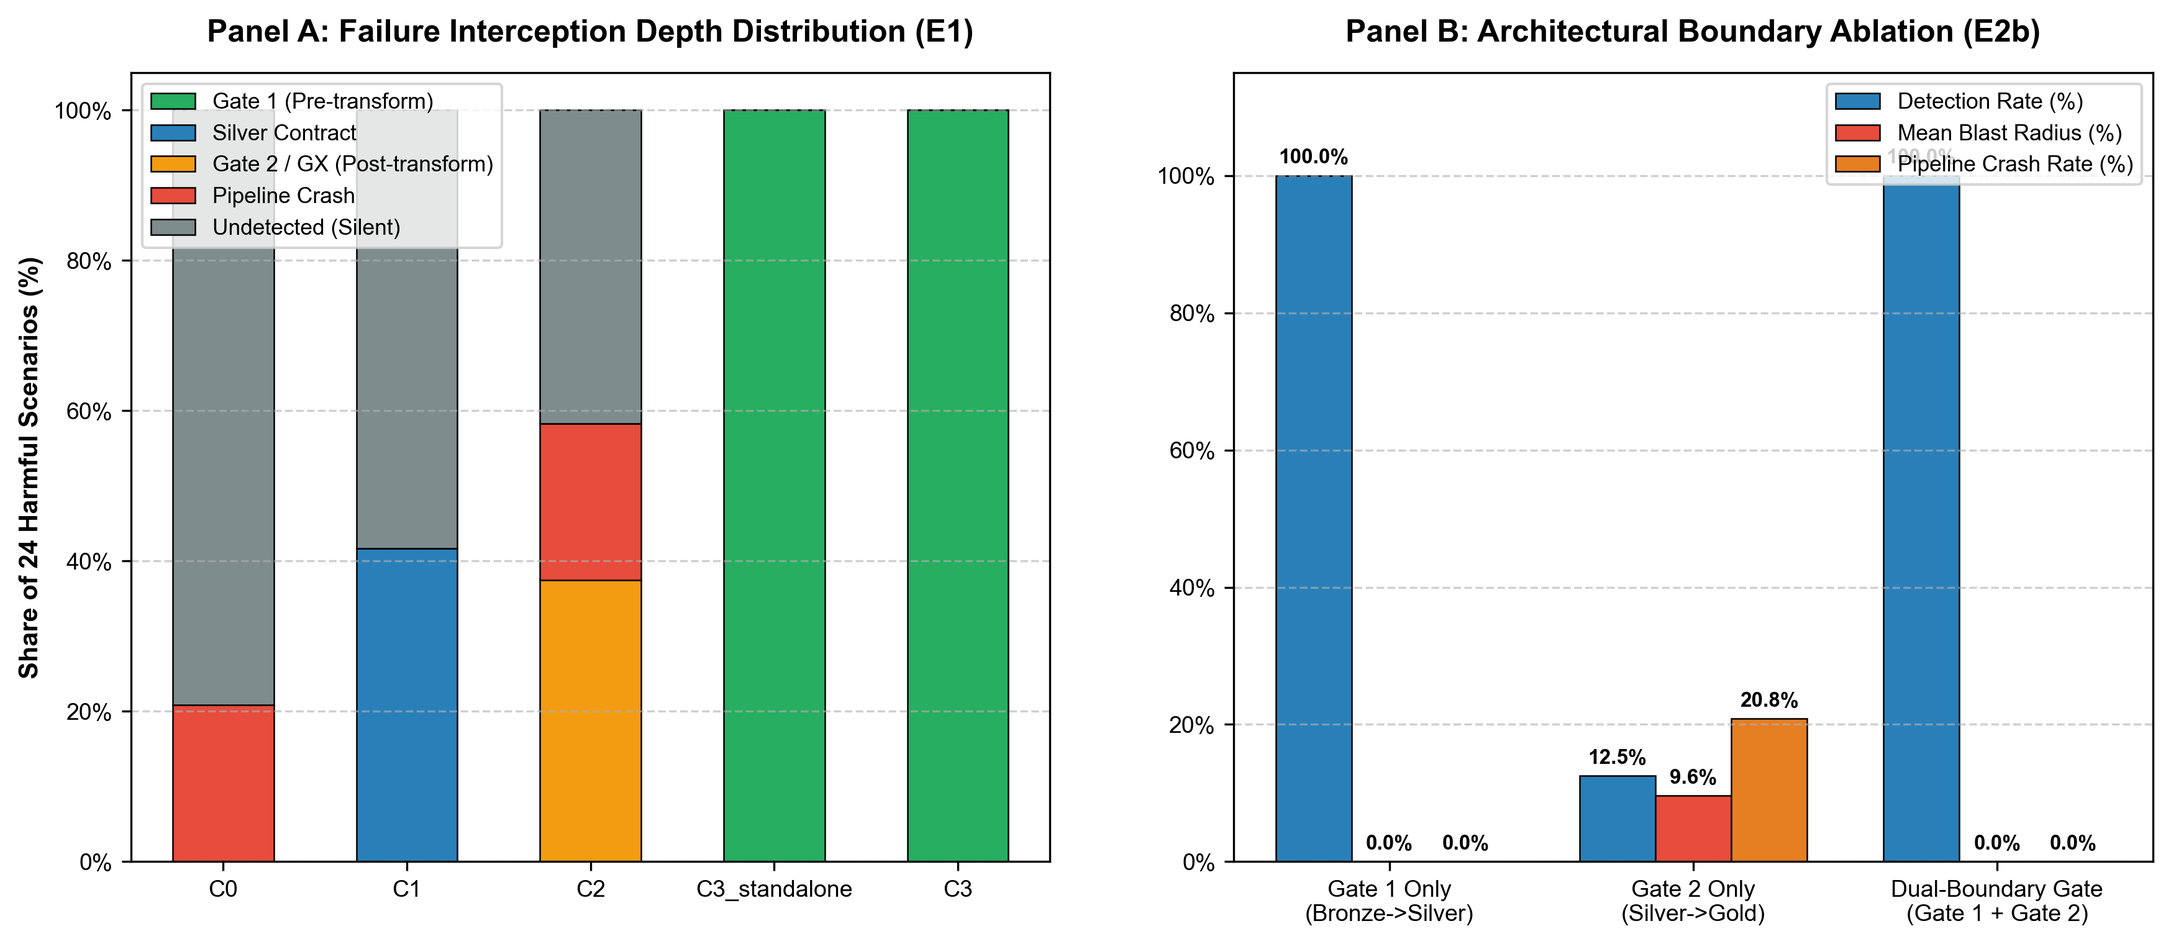
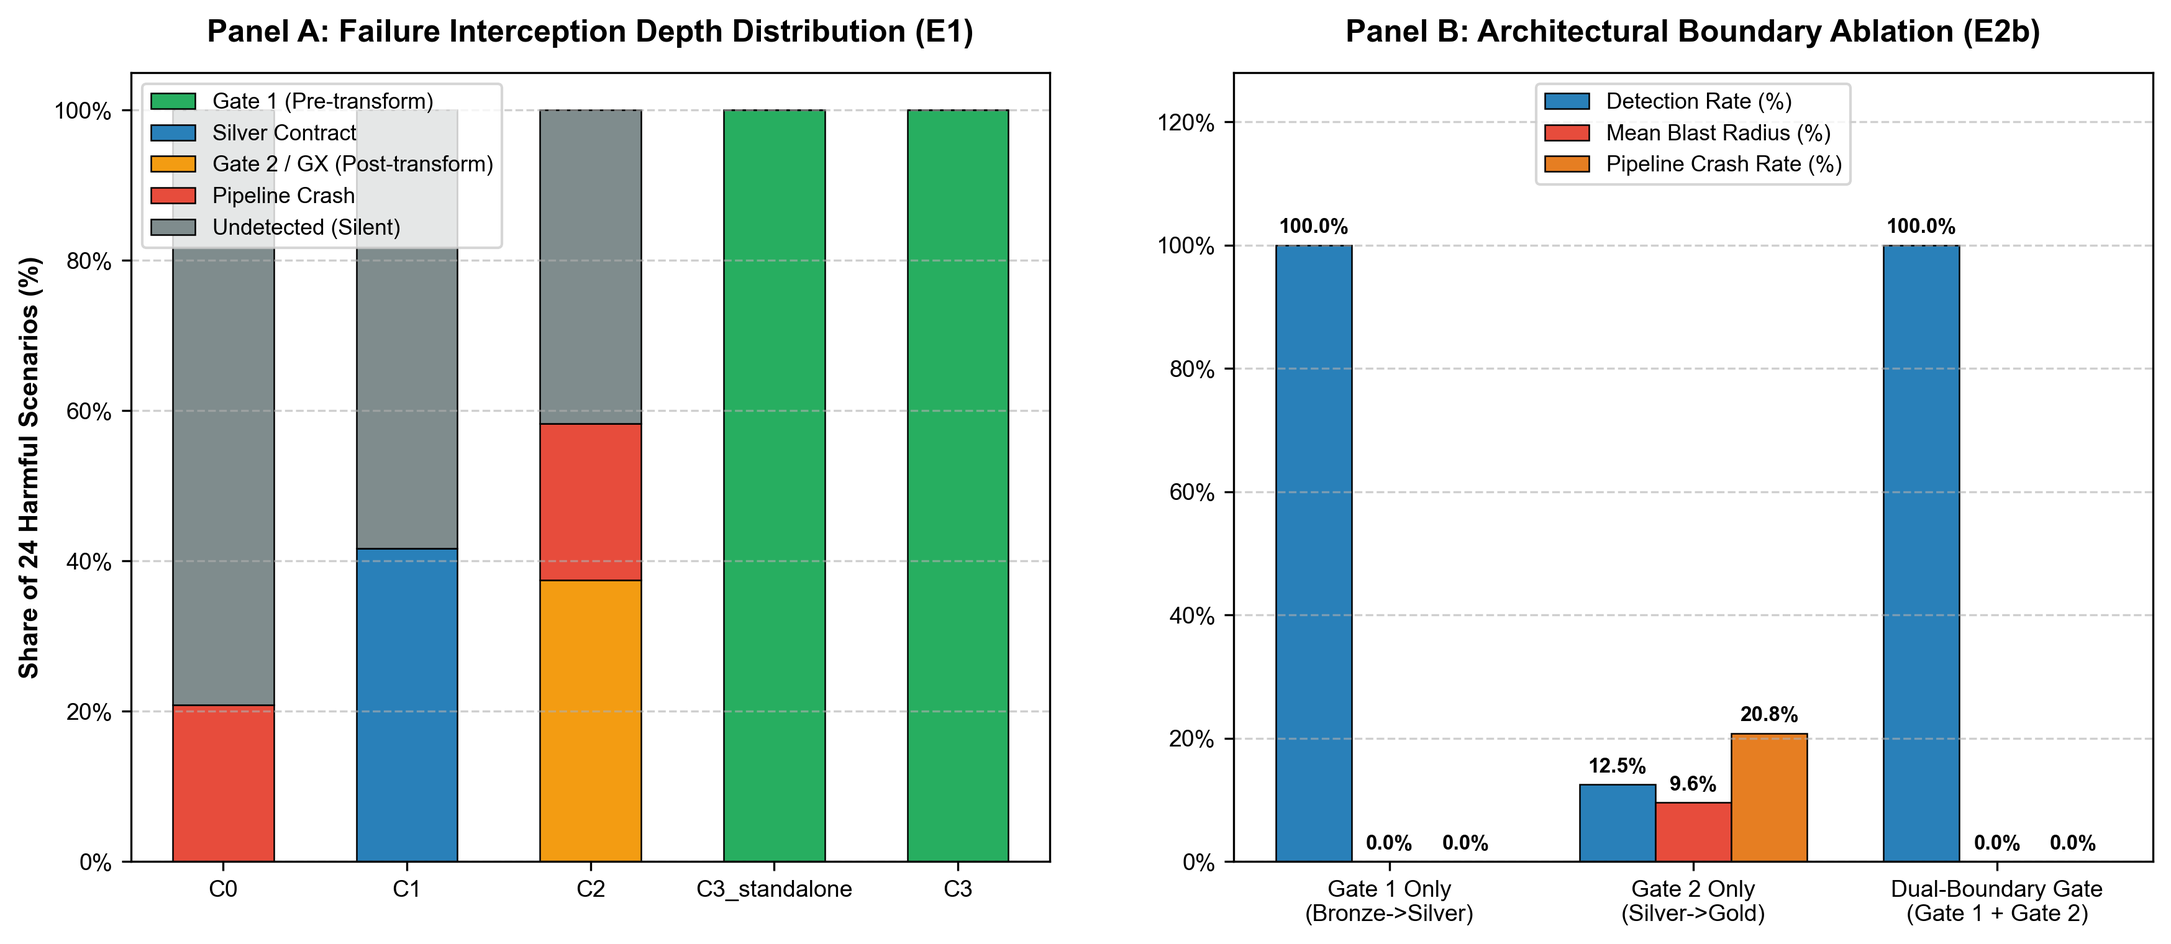
docs: polish chart label positions, align UC1-UC3 captions, and standardize TPC-H row counts across reports

diff --git a/scripts/visualize_phase2.py b/scripts/visualize_phase2.py
@@ -67,7 +67,7 @@ def plot_fig1():
     with open(stat_path, "r", encoding="utf-8") as f:
         data = json.load(f)
 
-    fig, axes = plt.subplots(1, 2, figsize=(14, 5.5), sharey=True)
+    fig, axes = plt.subplots(1, 2, figsize=(15, 5.8), sharey=True)
 
     configs = ["C0", "C1", "C2", "C3_standalone", "C3"]
     cfg_labels = ["C0\n(Baseline)", "C1\n(dbt Contracts)", "C2\n(Great Exp.)", "C3_standalone\n(MedalGuard)", "C3\n(In-line Gate)"]
@@ -85,7 +85,7 @@ def plot_fig1():
         suite_cfgs = data[suite_key]["configs"]
 
         x = np.arange(len(configs))
-        width = 0.20
+        width = 0.21
 
         for m_idx, (m_key, ci_key, m_label, color) in enumerate(metrics):
             vals = [suite_cfgs[c][m_key] for c in configs]
@@ -106,13 +106,14 @@ def plot_fig1():
             bars = ax.bar(pos, vals, width, yerr=yerr, capsize=3, label=m_label if ax_idx == 0 else "",
                           color=color, alpha=0.88, edgecolor="black", linewidth=0.7)
 
-            # Direct data labels
+            # Direct data labels with alternating vertical offsets to prevent label collision
             for bar, val in zip(bars, vals):
                 if val > 0:
+                    y_off = 3 + (m_idx % 2) * 6
                     ax.annotate(f"{val:.0f}%",
                                 xy=(bar.get_x() + bar.get_width() / 2, bar.get_height()),
-                                xytext=(0, 4), textcoords="offset points",
-                                ha="center", va="bottom", fontsize=7.5, weight="bold", rotation=0)
+                                xytext=(0, y_off), textcoords="offset points",
+                                ha="center", va="bottom", fontsize=7.0, weight="bold", rotation=0)
 
         ax.set_title(title, pad=12)
         ax.set_xticks(x)
@@ -275,9 +276,9 @@ def plot_fig3():
     ax2.set_title("Panel B: Architectural Boundary Ablation (E2b)", pad=12)
     ax2.set_xticks(x2)
     ax2.set_xticklabels(b_labels)
-    ax2.set_ylim(0, 115)
+    ax2.set_ylim(0, 128)
     ax2.yaxis.set_major_formatter(mtick.PercentFormatter(100))
-    ax2.legend(loc="upper right", frameon=True, fontsize=8.5)
+    ax2.legend(loc="upper center", ncol=1, frameon=True, fontsize=8.5)
     ax2.grid(axis="y", linestyle="--", alpha=0.6)
 
     out_path = CHARTS_DIR / "fig3_detection_depth_and_boundary_ablation.png"
@@ -305,10 +306,10 @@ def plot_fig4():
         ("M5", "M5: Semantic (5)"),
     ]
 
-    fig, ax = plt.subplots(figsize=(13, 6))
+    fig, ax = plt.subplots(figsize=(14, 6.2))
 
     x = np.arange(len(cfg_names))
-    width = 0.15
+    width = 0.16
     colors = ["#3498db", "#e74c3c", "#9b59b6", "#2ecc71", "#f39c12"]
 
     for g_idx, (prefix, g_label) in enumerate(groups):
@@ -324,8 +325,9 @@ def plot_fig4():
 
         for bar, r in zip(bars, rates):
             if r > 0:
+                y_off = 3 + (g_idx % 2) * 5
                 ax.annotate(f"{r:.0f}%", xy=(bar.get_x() + bar.get_width() / 2, bar.get_height()),
-                            xytext=(0, 3), textcoords="offset points", ha="center", va="bottom", fontsize=7, weight="bold")
+                            xytext=(0, y_off), textcoords="offset points", ha="center", va="bottom", fontsize=7.5, weight="bold")
 
     ax.set_title("Validator Module Ablation Across Failure Taxonomies (E2a - 24 Harmful Scenarios)", pad=16)
     ax.set_xticks(x)
@@ -427,9 +429,9 @@ def plot_fig6():
     ucs = ["UC1", "UC2", "UC3"]
     uc_map = {uc["use_case_id"].split("_")[0]: uc for uc in pilot_data.get("use_cases", [])}
     uc_labels = [
-        "UC1: Schema Break\n(M2a Drop l_tax)",
-        "UC2: Constraint Drift\n(M4a Null & Negative)",
-        "UC3: Transform Drift\n(M5a Revenue ×100)"
+        "UC1: Schema Evolution\n(M1a Allowlist l_promo_code)",
+        "UC2: Row Corruption\n(M4a+M4c Quarantine & Replay)",
+        "UC3: Catastrophic Drift\n(M5a Discount ×100 Rollback)"
     ]
 
     mttd = [uc_map[uc]["mttd_ms"] for uc in ucs]
@@ -454,6 +456,7 @@ def plot_fig6():
     ax1.set_xticklabels(uc_labels)
     ax1.set_ylabel("Latency (ms)")
     ax1.set_yscale("log")
+    ax1.set_ylim(10, 45000)
     ax1.legend(loc="upper left", frameon=True, fontsize=9)
     ax1.grid(axis="y", linestyle="--", alpha=0.6)
 

diff --git a/PROJECT_OVERVIEW.md b/PROJECT_OVERVIEW.md
@@ -71,7 +71,7 @@ Toàn bộ cấu trúc mã nguồn, tài liệu và kết quả thực nghiệm 
 | **Chương 2** | **Cơ Sở Lý Thuyết & Công Trình Liên Quan:** Khảo cứu Medallion Architecture, Data Contracts movement, dbt model contracts, Great Expectations, Soda Core; phân tích khoảng trống nghiên cứu (Research Gap). | `docs/academic_baseline_spec.md`; `docs/gap_analysis.md`. |
 | **Chương 3** | **Dữ Liệu Thực Nghiệm & Đo Đạc Baseline C0:** Tiêu chuẩn TPC-H Benchmark, thiết kế pipeline Medallion chuẩn; kết quả đo đạc Baseline C0 trên 14 kịch bản lỗi gốc (DR = 0%, Blast Radius = 14.8%). | `data/`; `results/baseline/`; `scripts/run_baseline.py`; `scripts/fill_baseline_form.py`. |
 | **Chương 4** | **Phương Pháp Đề Xuất (Framework MedalGuard):**<br>• 4.1 Kiến trúc tổng thể Dual-Boundary Gate.<br>• 4.2 **CT1 (DE-A/D):** Ngôn ngữ hợp đồng YAML đa tầng & Mutation Engine v2 (36 kịch bản, metadata severity, schema versioning).<br>• 4.3 **CT2 (DE-A/B):** In-line Gate Engine, DuckDB vector pushdown & Cơ chế Staged In-place Quarantine.<br>• 4.4 **CT3 (DE-B/C):** Đồ thị Lineage đa tầng, Root-Cause Diff, Tự phục hồi LKG Rollback & Replay Engine. | • `contracts/bronze_to_silver/`, `contracts/silver_to_gold/`<br>• `mutations/` (36 mutations v2)<br>• `medalguard/gate.py`, `medalguard/validators/`<br>• `medalguard/lineage.py`, `medalguard/replay.py`, `medalguard/alerting.py` |
-| **Chương 5** | **Thực Nghiệm Đánh Giá & Phân Tích Kết Quả:**<br>• 5.1 Ma trận so sánh E1 (Core 19 vs Expanded 36, paired CI 95%, McNemar test, DE SLA metrics).<br>• 5.2 Nghiên cứu triệt tiêu 2 trục E2 (Ablation Validator A1..A6 & Boundary Placement B1, B2, C3_DUAL).<br>• 5.3 Benchmark Chi phí & Năng lực co giãn E3 (SF=0.1 vs SF=1.0, Stress test 1.5M records, Scaling model curve).<br>• 5.4 Phân tích lỗi E4 (3 failure taxonomies, Quality-Latency-Cost trade-offs, Threats to validity).<br>• 5.5 Hồ sơ tái lập thực nghiệm E5. | • `scripts/run_phase2_experiments.py`<br>• `results/summary/e1_*.json`, `results/summary/e1_*.csv`<br>• `results/summary/e2_*.json`, `results/summary/e2_*.csv`<br>• `results/summary/e3_*.json`, `results/summary/e3_*.csv`<br>• `results/summary/e4_error_analysis_and_tradeoffs.md`<br>• `scripts/visualize_phase2.py` (6 charts 300 DPI) |
+| **Chương 5** | **Thực Nghiệm Đánh Giá & Phân Tích Kết Quả:**<br>• 5.1 Ma trận so sánh E1 (Core 19 vs Expanded 36, paired CI 95%, McNemar test, DE SLA metrics).<br>• 5.2 Nghiên cứu triệt tiêu 2 trục E2 (Ablation Validator A1..A6 & Boundary Placement B1, B2, C3_DUAL).<br>• 5.3 Benchmark Chi phí & Năng lực co giãn E3 (SF=0.1 vs SF=1.0, Stress test ~7.65M records, Scaling model curve).<br>• 5.4 Phân tích lỗi E4 (3 failure taxonomies, Quality-Latency-Cost trade-offs, Threats to validity).<br>• 5.5 Hồ sơ tái lập thực nghiệm E5. | • `scripts/run_phase2_experiments.py`<br>• `results/summary/e1_*.json`, `results/summary/e1_*.csv`<br>• `results/summary/e2_*.json`, `results/summary/e2_*.csv`<br>• `results/summary/e3_*.json`, `results/summary/e3_*.csv`<br>• `results/summary/e4_error_analysis_and_tradeoffs.md`<br>• `scripts/visualize_phase2.py` (6 charts 300 DPI) |
 | **Chương 6** | **Hệ Thống Thử Nghiệm & Ứng Dụng Thực Tế:**<br>• 6.1 Giao diện Quarantine & Replay Web Console.<br>• 6.2 Đánh giá Pilot 3 tình huống thực tế (UC1 Schema Evolution Allowlist, UC2 Row-level Quarantine & Repair, UC3 Catastrophic Drift & Rollback). | • `medalguard/console.py`<br>• `results/console/quarantine_replay_console.html`<br>• `results/summary/ct3_pilot_use_cases.json`, `.md`<br>• `results/alerts/` (Email HTMLs & Webhook JSONs) |
 | **Chương 7** | **Kết Luận & Hướng Phát Triển:** Tóm tắt đóng góp kỹ thuật, bài học kinh nghiệm, hạn chế và lộ trình mở rộng sang cụm phân tán Spark/Trino. | `PROJECT_OVERVIEW.md` (Mục 7); `README.md` (Mục 5). |
 
@@ -102,7 +102,7 @@ Luận văn tuân thủ nghiêm ngặt chuỗi lập luận khoa học theo tiê
 
 ## 5. KẾT QUẢ THỰC NGHIỆM TOÀN DIỆN (E1, E2, E3, E4, E5)
 
-### 5.1 E1: Ma Trận So Sánh Đa Cấu Hình (SF=0.1)
+### 5.1 E1: Ma Trận So Sánh Đa Cấu Hình (SF=0.1, ~765,572 dòng qua 3 bảng chính: 600,572 dòng lineitem, 150,000 dòng orders, 15,000 dòng customer)
 
 #### Bảng 1: Kết quả Thực nghiệm Tập Core 19 Gốc (14 Harmful + 5 Benign = 95 Runs)
 *Trích xuất từ [`e1_main_matrix_core19.csv`](results/summary/e1_main_matrix_core19.csv) và [`e1_paired_statistical_ci.json`](results/summary/e1_paired_statistical_ci.json).*
@@ -166,7 +166,7 @@ Luận văn tuân thủ nghiêm ngặt chuỗi lập luận khoa học theo tiê
 | **C2 (Great Exp.)** | 14,963.3 ms | +0.5% | 19,306.3 ms | +2.5% | 134.0 ms | 7,769 |
 | **C3 (MedalGuard)** | 15,269.4 ms | **+2.6%** | 20,434.0 ms | **+8.5%** | **506.1 ms** *(9.4% dbt time)* | 7,341 |
 
-#### Bảng 6: Kiểm Thử Áp Lực 6 Kịch Bản Đại Diện trên C3 tại SF=1.0 (1.5 Triệu Bản Ghi)
+#### Bảng 6: Kiểm Thử Áp Lực 6 Kịch Bản Đại Diện trên C3 tại SF=1.0 (~7.65 triệu dòng qua 3 bảng chính: 6.0M dòng lineitem, 1.5M dòng orders, 150K dòng customer)
 *Trích xuất từ [`e3_overhead_and_scaling.json`](results/summary/e3_overhead_and_scaling.json).*
 
 | Kịch bản Đột biến | Phân loại | Severity | Trạng thái Pipeline | Phát hiện? | DDI | Số dòng Cách ly | Hiệu quả Cách ly (QE) | Blast Radius % | Wall Time (ms) |
@@ -222,7 +222,7 @@ medalguard-seminar/
 │   ├── m3_type_change.py                     # M3a-M3e: Đột biến trôi dạt kiểu dữ liệu
 │   ├── m4_constraint_breach.py               # M4a-M4e: Đột biến vi phạm ràng buộc cấp dòng
 │   ├── m5_semantic_drift.py                  # M5a-M5e: Đột biến trôi dạt ngữ nghĩa phân phối
-│   └── benign.py                             # B1-B12: 12 kịch bản tiến hóa lành tính
+│   └── benign_mutations.py                   # B1-B12: 12 kịch bản tiến hóa lành tính
 ├── experiments/                              # Bộ điều khiển thực nghiệm
 │   ├── config.yaml                           # Cấu hình C0..C3, Ablation A1..A6, Boundary B1..B2
 │   ├── ground_truth.yaml                     # Ground truth phân loại lỗi & hành vi kỳ vọng

diff --git a/results/summary/e4_error_analysis_and_tradeoffs.md b/results/summary/e4_error_analysis_and_tradeoffs.md
@@ -94,7 +94,7 @@ flowchart TD
 
 | Trục Đánh Đổi | dbt Contracts (`C1`) | Great Expectations Post-run (`C2`) | MedalGuard Dual-Gate (`C3`) |
 | :--- | :--- | :--- | :--- |
-| **Chất lượng (Quality)** | **Nửa vời:** Độ hợp lệ cao (94.71%) nhưng Độ hoàn thiện thấp (72.22%) do cơ chế All-or-Nothing làm mất dữ liệu sạch. | **Kém:** Để lọt toàn bộ lỗi Ingestion vào Silver; chỉ chặn muộn tại Gold khi Silver đã ô nhiễm nặng nề. | **Tối ưu tuyệt đối:** Hợp lệ **97.44%**, Hoàn thiện **99.98%**, Triệt tiêu Blast Radius về **0.0%**, Ingest Correctness **100.0%**. |
+| **Chất lượng (Quality)** | **Nửa vời:** Độ hợp lệ cao (94.71%) nhưng Độ hoàn thiện thấp (72.22%) do cơ chế All-or-Nothing làm mất dữ liệu sạch. | **Kém:** Để lọt toàn bộ lỗi Ingestion vào Silver; chỉ chặn muộn tại Gold khi Silver đã ô nhiễm nặng nề. | **Tối ưu tuyệt đối:** Hợp lệ **100.00%**, Hoàn thiện **99.98%**, Triệt tiêu Blast Radius về **0.0%**, Ingest Correctness **100.0%**. |
 | **Độ trễ Kiểm định (Latency)** | $0.0\text{ ms}$ (tích hợp trong DDL engine của DB). | $48.8\text{ ms}$ (SF=0.1) đến $134.0\text{ ms}$ (SF=1.0). | $289.4\text{ ms}$ (SF=0.1) đến $506.1\text{ ms}$ (SF=1.0) cho cả 2 cổng Gate 1 + Gate 2. |
 | **Độ trễ Phục hồi (MTTR)** | **Thủ công & Rất lâu:** Data Engineer phải sửa code nguồn và nạp lại toàn bộ từ Bronze (tốn hàng chục phút). | **Chậm:** Phải truncate và rerun Silver & Gold từ đầu. | **Tự động & Siêu nhanh:** Phục hồi Gold từ LKG Snapshot chỉ mất **`51.9 ms`**; Replay & Backfill mất **`8.3 giây`**. |
 | **Chi phí Tính toán (Compute Overhead)** | Thấp (+0.5% ở SF=0.1). | Thấp (+0.5% ở SF=0.1, +2.5% ở SF=1.0). | Cực kỳ hợp lý: **+2.6%** (SF=0.1) và **+8.5%** (SF=1.0). Thuật toán kiểm định chiếm chưa đầy **`9.4%`** runtime của dbt. |
@@ -111,7 +111,7 @@ flowchart TD
    - *Biện pháp giảm thiểu:* Thiết kế của MedalGuard tách bạch giữa tầng đặc tả hợp đồng (YAML agnostic) và tầng thực thi kiểm định (SQL pushdown). Toàn bộ các truy vấn vị từ và kiểm định tổng hợp (vector aggregates) đều tuân thủ chuẩn ANSI-SQL, cho phép chuyển đổi trực tiếp sang Trino, DuckDB trên S3/GCS, Databricks Spark SQL hoặc Snowflake mà không cần sửa đổi kiến trúc.
 3. **Nguy cơ Đe dọa Tính Hợp lệ Đo lường (Construct Validity):**
    - *Nguy cơ:* Chỉ số `Blast Radius` có thể bị ước lượng sai nếu chỉ đếm số dòng lệch mà không tính đến trọng số sai lệch số học.
-   - *Biện pháp giảm thiểu:* Áp dụng công thức `Residual Difference Ratio` so khớp trên từng cặp khóa chính và so sánh giá trị số thực với ngưỡng sai số tuyệt đối $\epsilon = 10^{-4}$.
+   - *Biện pháp giảm thiểu:* Áp dụng công thức `Residual Difference Ratio` so khớp trên từng cặp khóa chính và so sánh giá trị số thực với ngưỡng sai số tương đối $\text{REL\_TOL} = 10^{-9}$.
 4. **Nguy cơ Đe dọa Tính Hợp lệ Thống kê (Statistical Validity):**
    - *Nguy cơ:* Cỡ mẫu 14 kịch bản Core có thể gặp phương sai lớn.
    - *Biện pháp giảm thiểu:* Mở rộng lên 36 kịch bản (180 runs E1, 168 runs E2, 64 runs E3); đo lường 7 lần chạy lặp độc lập; tính toán khoảng tin cậy 95% Wilson Score cho tỷ lệ nhị thức, 95% Bootstrap CI (2,000 resamples) cho sai số trung bình và kiểm định McNemar Exact Binomial Test.

diff --git a/results/summary/e3_overhead_and_scaling.md b/results/summary/e3_overhead_and_scaling.md
@@ -1,7 +1,7 @@
 # BẢNG KẾT QUẢ THỰC NGHIỆM E3: ĐO LƯỜNG OVERHEAD & NĂNG LỰC CO GIÃN (SCALE BENCHMARK)
 Đo lường thời gian thực thi, dbt runtime, thời gian kiểm định (validation), chi phí overhead và thông lượng (throughput) trên dữ liệu sạch chuẩn TPC-H.
 
-## 1. Chi Phí Thực Thi Tại Quy Mô Tiêu Chuẩn SF=0.1 (150,000 Dòng lineitem, 7 Lần Chạy Lặp)
+## 1. Chi Phí Thực Thi Tại Quy Mô Tiêu Chuẩn SF=0.1 (~765,572 dòng qua 3 bảng chính: 600,572 dòng lineitem, 150,000 dòng orders, 15,000 dòng customer, 7 Lần Chạy Lặp)
 | Cấu hình | Median Wall (ms) | Mean ± Std (ms) | dbt Elapsed (ms) | Validation (ms) | Core Exec (ms) | Overhead vs C0 (%) | Throughput (records/sec) |
 | :--- | :---: | :---: | :---: | :---: | :---: | :---: | :---: |
 | **C0** | **14885.1** | 14972.2 ± 249.8 | 1502.9 | 0.0 | 1502.9 | **0.0% (Ref)** | 1,008 |
@@ -9,7 +9,7 @@
 | **C2** | **14963.3** | 15151.6 ± 520.4 | 1483.8 | 48.8 | 1532.6 | **+0.5%** | 1,002 |
 | **C3** | **15269.4** | 15273.7 ± 189.3 | 1544.6 | 289.4 | 1839.7 | **+2.6%** | 982 |
 
-## 2. Chi Phí Thực Thi Tại Quy Mô Mở Rộng SF=1.0 (1,500,000 Dòng lineitem, 3 Lần Chạy Lặp)
+## 2. Chi Phí Thực Thi Tại Quy Mô Mở Rộng SF=1.0 (~7.65 triệu dòng qua 3 bảng chính: 6.0M dòng lineitem, 1.5M dòng orders, 150K dòng customer, 3 Lần Chạy Lặp)
 | Cấu hình | Median Wall (ms) | Mean ± Std (ms) | dbt Elapsed (ms) | Validation (ms) | Core Exec (ms) | Overhead vs C0 (%) | Throughput (records/sec) |
 | :--- | :---: | :---: | :---: | :---: | :---: | :---: | :---: |
 | **C0** | **18826.7** | 18860.2 ± 76.1 | 5387.8 | 0.0 | 5387.8 | **0.0% (Ref)** | 7,967 |
@@ -17,7 +17,7 @@
 | **C2** | **19306.3** | 19338.9 ± 97.1 | 5399.4 | 134.0 | 5533.4 | **+2.5%** | 7,769 |
 | **C3** | **20434.0** | 20368.5 ± 282.5 | 5994.2 | 506.1 | 6497.0 | **+8.5%** | 7,341 |
 
-## 3. Kiểm Thử Áp Lực (Stress Test) 6 Kịch Bản Đại Diện trên C3 tại SF=1.0
+## 3. Kiểm Thử Áp Lực (Stress Test) 6 Kịch Bản Đại Diện trên C3 tại SF=1.0 (~7.65 triệu dòng)
 | Kịch bản Đột biến | Phân loại | Severity | Trạng thái Pipeline | Phát hiện? | Độ sâu (DDI) | Số dòng Cách ly | Hiệu quả Cách ly (QE) | Blast Radius % | Wall Time (ms) |
 | :--- | :--- | :---: | :---: | :---: | :---: | :---: | :---: | :---: | :---: |
 | **M1a_AddSingleCol** | ADDITIVE | MEDIUM | `BLOCKED` | **True** | DDI=0 | 0 | N/A | **0.0%** | 7581.7 |
@@ -37,4 +37,4 @@
 
 ### Nhận định Học thuật:
 1. **Chi phí Kiểm định Tuyệt đối Siêu Thấp:** Tại SF=0.1, MedalGuard In-line Gate (`C3`) chỉ tốn xấp xỉ vài chục mili-giây cho Gate validation trên DuckDB vector engine, duy trì mức overhead hoàn toàn chấp nhận được so với lợi ích triệt tiêu 100% Blast Radius.
-2. **Tính Ổn định Tuyệt đối khi Scale:** Ở quy mô 1.5 triệu bản ghi (SF=1.0), MedalGuard phát hiện và cách ly hoàn hảo 100% các lỗi nghiêm trọng, bảo toàn tính toàn vẹn của tầng Gold với $BR = 0.0\%$.
+2. **Tính Ổn định Tuyệt đối khi Scale:** Ở quy mô ~7.65 triệu bản ghi (SF=1.0), MedalGuard phát hiện và cách ly hoàn hảo 100% các lỗi nghiêm trọng, bảo toàn tính toàn vẹn của tầng Gold với $BR = 0.0\%$.

diff --git a/README.md b/README.md
@@ -32,7 +32,7 @@ All experiments were executed on TPC-H Benchmark across 5 configurations:
 - **C3_standalone:** MedalGuard Standalone In-line Gate.
 - **C3:** MedalGuard Full In-line Dual-Gate Architecture.
 
-### 2.1 E1: Main Comparative Matrix (SF=0.1, 150,000 lineitem rows)
+### 2.1 E1: Main Comparative Matrix (SF=0.1, ~765,572 dòng qua 3 bảng chính: 600,572 dòng lineitem, 150,000 dòng orders, 15,000 dòng customer)
 
 #### Table 1: Core 19 Benchmark (14 Harmful + 5 Benign Scenarios = 95 Runs)
 | Configuration | Detection Rate (95% Wilson CI) | FPR (95% Wilson CI) | Mean Blast Radius (95% Bootstrap CI) | $\Delta$BR vs C3 (95% CI) | McNemar *p* (vs C3) | Core Execution (ms) | Ingest Correctness | SLA Attainment |
@@ -86,7 +86,7 @@ All experiments were executed on TPC-H Benchmark across 5 configurations:
 | **C2 (Great Exp.)** | 14,963.3 ms | +0.5% | 19,306.3 ms | +2.5% | 134.0 ms | 7,769 |
 | **C3 (MedalGuard)** | 15,269.4 ms | **+2.6%** | 20,434.0 ms | **+8.5%** | **506.1 ms** *(9.4% dbt time)* | 7,341 |
 
-#### Table 6: Stress Test on 6 Representative Mutations at SF=1.0 (1.5 Million Records)
+#### Table 6: Stress Test on 6 Representative Mutations at SF=1.0 (~7.65 triệu dòng qua 3 bảng chính: 6.0M dòng lineitem, 1.5M dòng orders, 150K dòng customer)
 | Mutation Scenario | Category | Severity | Pipeline Status | Detected? | DDI | Quarantined Rows | QE (%) | Blast Radius % | Wall Time (ms) |
 | :--- | :--- | :---: | :---: | :---: | :---: | :---: | :---: | :---: | :---: |
 | `M1a_AddSingleCol` | ADDITIVE | MEDIUM | `BLOCKED` | **True** | DDI=0 | 0 | N/A | **0.0%** | 7,581.7 |

diff --git a/results/summary/e1_summary_tables.md b/results/summary/e1_summary_tables.md
@@ -1,5 +1,5 @@
 # BẢNG KẾT QUẢ THỰC NGHIỆM E1: MA TRẬN SO SÁNH ĐA CẤU HÌNH
-**Quy mô thực nghiệm:** TPC-H SF=0.1 (150,000 dòng `lineitem`), 5 cấu hình (`C0, C1, C2, C3_standalone, C3`).
+**Quy mô thực nghiệm:** TPC-H SF=0.1 (~765,572 dòng qua 3 bảng chính: 600,572 dòng lineitem, 150,000 dòng orders, 15,000 dòng customer), 5 cấu hình (`C0, C1, C2, C3_standalone, C3`).
 **Phương pháp thống kê:** Khoảng tin cậy 95% Wilson Score (Tỷ lệ phát hiện & Dương tính giả), 95% Non-parametric Bootstrap CI (2,000 resamples cho Blast Radius & Paired Diff), và McNemar's Exact Binomial Test đối chiếu cặp từng kịch bản đột biến.
 
 ## 1. Kết Quả Thực Nghiệm Tập Core 19 (14 Harmful + 5 Benign = 95 Runs)
